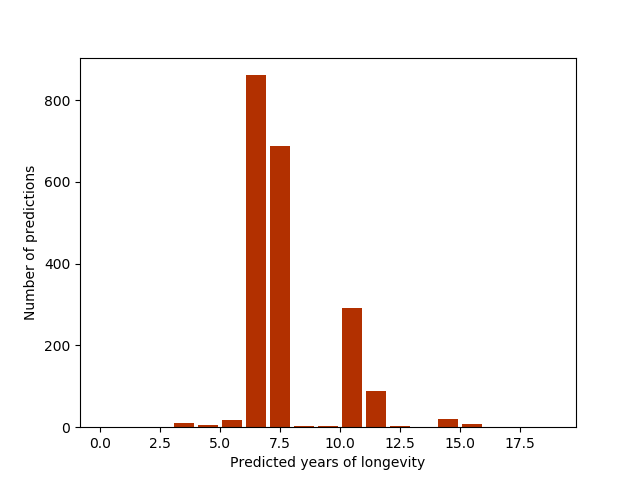
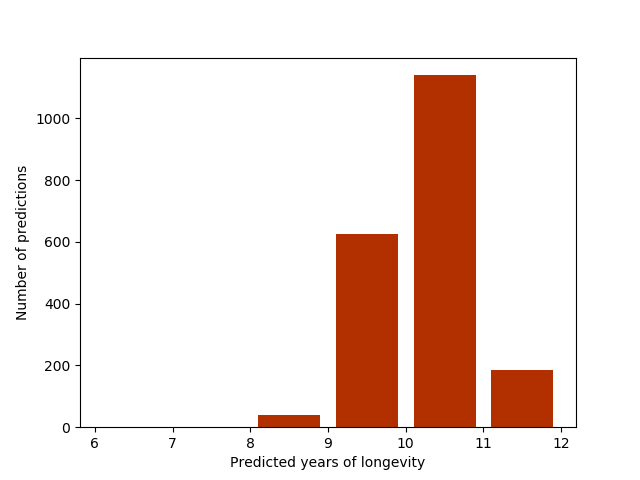
switched decision tree regressor with linear regressor, now results are actually good

diff --git a/root/webinterface/run.py b/root/webinterface/run.py
@@ -157,7 +157,8 @@ def dt_target_prediction():
     # FOR ACTUAL USE
     if not Data.recalibrate:
         for x in range(2000):
-            prediction_result, r2 = ml.target_predict_decision_tree(target, Data.recalibrate)
+            # prediction_result, r2 = ml.target_predict_decision_tree(target, Data.recalibrate)
+            prediction_result, r2 = ml.target_predict_linear(target, Data.recalibrate)
             r2 = float(r2)
             prediction_results_list.append(float(prediction_result))
             if Data.stop_process:

diff --git a/root/webinterface/modules/graph_factory.py b/root/webinterface/modules/graph_factory.py
@@ -47,7 +47,7 @@ def histogram_of_results(list_of_results):
     path = '%s%s' % (dth.Path.img + '/graphs/', 'histogram.png')
     plt.xlabel('Predicted years of longevity')
     plt.ylabel('Number of predictions')
-    bins = range(0, 20)
+    bins = range(int(min(list_of_results) - 1), int(max(list_of_results) + 1))
     plt.hist(list_of_results, bins=bins, rwidth=0.8, color='#b23000')
     plt.savefig(path)
     plt.clf()

diff --git a/root/webinterface/modules/ml.py b/root/webinterface/modules/ml.py
@@ -163,8 +163,7 @@ def target_predict_linear(target, recalibrate=False, count=0):
     if recalibrate:
         parameters = {
             'fit_intercept': (True, False),
-            'normalize': (True, False),
-            'copy_X': (True, False)
+            'normalize': (True, False)
         }
 
         regressor = GridSearchCV(LinearRegression(), parameters, n_jobs=-1)
